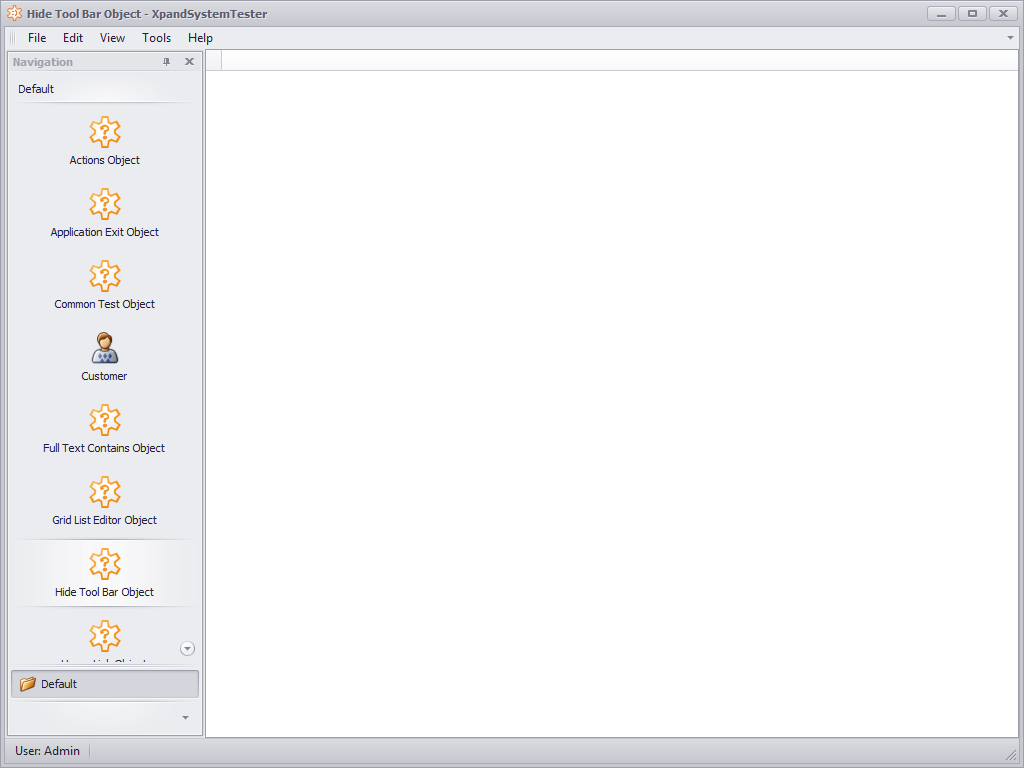
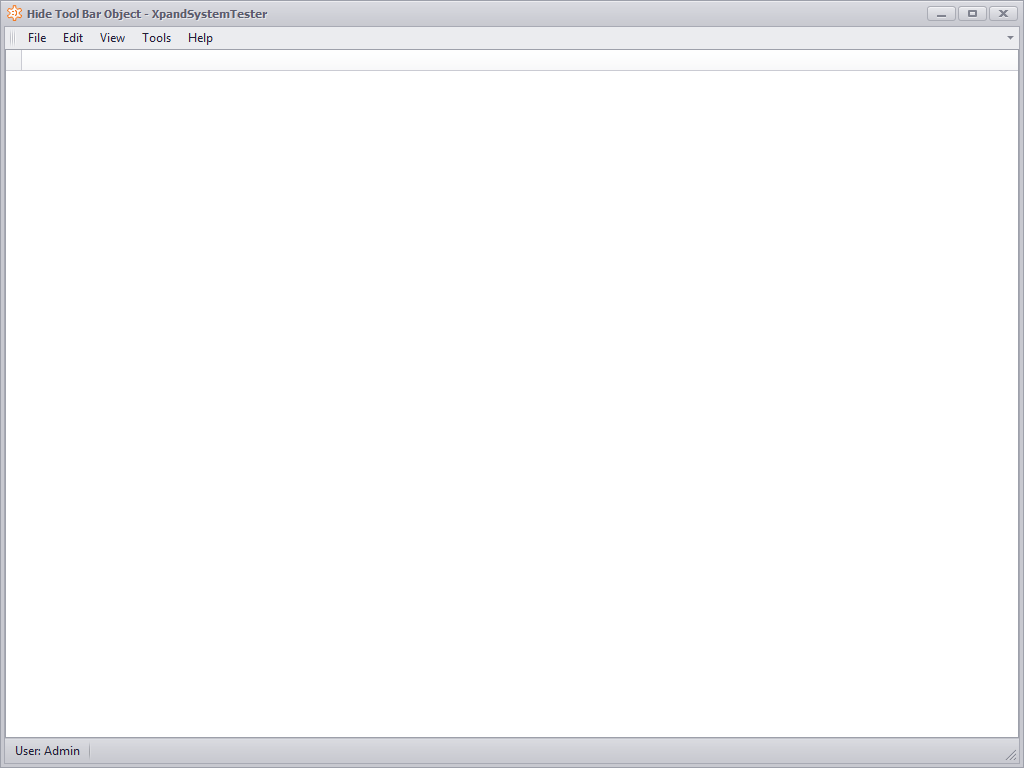
update easytest screenshots without navigation

diff --git a/Xpand.EasyTest/Xpand.EasyTest/Commands/XpandCompareScreenshotCommand.cs b/Xpand.EasyTest/Xpand.EasyTest/Commands/XpandCompareScreenshotCommand.cs
@@ -12,17 +12,23 @@ namespace Xpand.EasyTest.Commands{
     public class XpandCompareScreenshotCommand : CompareScreenshotCommand {
         public const string Name = "XpandCompareScreenshot";
         protected override void InternalExecute(ICommandAdapter adapter){
-            ExecuteAdditionalCommands(adapter);
-            ITestControl activeWindowControl = adapter.CreateTestControl(TestControlType.Dialog, null);
+            var activeWindowControl = adapter.CreateTestControl(TestControlType.Dialog, null);
             var windowHandle = GetWindowHandle(activeWindowControl);
+            ExecuteAdditionalCommands(adapter,windowHandle);
             var testImage = GetTestImage(windowHandle);
             var filename = GetFilename(adapter);
-            if (File.Exists(filename)){
-                CompareAndSave(filename, testImage,adapter);
+
+            try{
+                if (File.Exists(filename)){
+                    CompareAndSave(filename, testImage,adapter);
+                }
+                else{
+                    SaveActualImage(testImage, filename);
+                    throw new CommandException(String.Format("'{0}' master copy was not found", filename),StartPosition);
+                }
             }
-            else{
-                SaveActualImage(testImage, filename);
-                throw new CommandException(String.Format("'{0}' master copy was not found", filename),StartPosition);
+            finally{
+                ToggleNavigation(adapter);
             }
         }
 
@@ -41,9 +47,7 @@ namespace Xpand.EasyTest.Commands{
         private void SaveAllImages(Image diffImage, string filename, Image testImage){
             SaveDiffImage(diffImage, filename);
             SaveActualImage(testImage, filename);
-            throw new CommandException(
-                String.Format("A screenshot of the active window differs from the '{0}' master copy",
-                    filename), StartPosition);
+            throw new CommandException(String.Format("A screenshot of the active window differs from the '{0}' master copy",filename), StartPosition);
         }
 
         private static Image GetTestImage(IntPtr windowHandle){
@@ -83,14 +87,17 @@ namespace Xpand.EasyTest.Commands{
             return windowHandle;
         }
 
-        private void ExecuteAdditionalCommands(ICommandAdapter adapter){
-            if (this.ParameterValue("KillFocus", true)){
+        private void ExecuteAdditionalCommands(ICommandAdapter adapter, IntPtr windowHandle){
+            if (this.ParameterValue(KillFocusCommand.Name, true)){
                 var hideCaretCommand = new KillFocusCommand();
                 hideCaretCommand.Execute(adapter);
             }
-            if (this.ParameterValue("HideCursor", true)){
+            if (this.ParameterValue(HideCursorCommand.Name, true)){
                 var hideCaretCommand = new HideCursorCommand();
                 hideCaretCommand.Execute(adapter);
+            }
+            if (this.ParameterValue("ToggleNavigation", true)){
+                ToggleNavigation(adapter);
             }
             var parameter = Parameters["ActiveWindowSize"];
             string activeWindowSize = "1024x768";
@@ -99,11 +106,19 @@ namespace Xpand.EasyTest.Commands{
             }
             var activeWindowSizeCommand = new ResizeWindowCommand();
             activeWindowSizeCommand.Parameters.MainParameter = new MainParameter(activeWindowSize);
+            activeWindowSizeCommand.Parameters.ExtraParameter = new MainParameter(windowHandle.ToString());
             activeWindowSizeCommand.Execute(adapter);
 
             var sleepCommand = new SleepCommand();
             sleepCommand.Parameters.MainParameter=new MainParameter(500.ToString(CultureInfo.InvariantCulture));
             sleepCommand.Execute(adapter);
+        }
+
+        private void ToggleNavigation(ICommandAdapter adapter){
+            var actionCommand = new ActionCommand();
+            actionCommand.Parameters.MainParameter = new MainParameter("Toggle Navigation");
+            actionCommand.Parameters.ExtraParameter = new MainParameter();
+            actionCommand.Execute(adapter);
         }
 
         private IEnumerable<string> GetMaskFileNames(ICommandAdapter adapter){

diff --git a/Xpand/Xpand.Persistent/Xpand.Persistent.Base/General/Controllers/NavigationController.cs b/Xpand/Xpand.Persistent/Xpand.Persistent.Base/General/Controllers/NavigationController.cs
@@ -2,6 +2,7 @@
 using System.ComponentModel;
 using System.Linq;
 using DevExpress.ExpressApp;
+using DevExpress.ExpressApp.Actions;
 using DevExpress.ExpressApp.Model;
 using DevExpress.ExpressApp.Web;
 using DevExpress.ExpressApp.Win.SystemModule;
@@ -14,8 +15,20 @@ namespace Xpand.Persistent.Base.General.Controllers {
         bool HideNavigationOnStartup { get; set; }
     }
     public class NavigationContainerController:WindowController,IModelExtender {
+        private readonly SimpleAction _toggleNavigation;
+
         public NavigationContainerController() {
             TargetWindowType=WindowType.Main;
+            _toggleNavigation = new SimpleAction(this, "ToggleNavigation", "Hidden");
+            _toggleNavigation.Execute+=ToggleNavigationOnExecute;
+        }
+
+        protected virtual void ToggleNavigationOnExecute(object sender, SimpleActionExecuteEventArgs e){
+            
+        }
+
+        public SimpleAction ToggleNavigation{
+            get { return _toggleNavigation; }
         }
 
         public void ExtendModelInterfaces(ModelInterfaceExtenders extenders){
@@ -30,26 +43,44 @@ namespace Xpand.Persistent.Base.General.Controllers {
                 Application.CustomizeTemplate += Application_CustomizeTemplate;
         }
 
+        protected override void ToggleNavigationOnExecute(object sender, SimpleActionExecuteEventArgs e){
+            base.ToggleNavigationOnExecute(sender, e);
+            var navigationPanel = GetNavigationPanel((IDockManagerHolder) Frame.Template);
+            navigationPanel.Visible = !navigationPanel.Visible;
+        }
+
         protected override void OnDeactivated() {
             Application.CustomizeTemplate -= Application_CustomizeTemplate;
             base.OnDeactivated();
         }
 
         private void Application_CustomizeTemplate(object sender, CustomizeTemplateEventArgs e) {
-            if ((Window.Template == null || Window.Template == e.Template) && e.Template is IDockManagerHolder) {
-                var dockPanel = ((IDockManagerHolder)e.Template).DockManager.RootPanels.FirstOrDefault(panel => panel.Name == "dockPanelNavigation");
-                if (dockPanel != null) dockPanel.Visibility = DockVisibility.AutoHide;
+            if ((Window.Template == null || Window.Template == e.Template) && e.Template is IDockManagerHolder){
+                var dockManagerHolder = ((IDockManagerHolder)e.Template);
+                var dockPanel = GetNavigationPanel(dockManagerHolder);
+                if (dockPanel != null) 
+                    dockPanel.Visibility = DockVisibility.AutoHide;
             }
+        }
+
+        private DockPanel GetNavigationPanel(IDockManagerHolder dockManagerHolder){
+            return dockManagerHolder.DockManager.Panels.FirstOrDefault(panel => panel.Name == "dockPanelNavigation");
         }
     }
 
 
-    public class NavigationContainerWebController : WindowController {
+    public class NavigationContainerWebController : NavigationContainerController {
         protected override void OnFrameAssigned(){
             base.OnFrameAssigned();
             if (((IModelOptionsNavigationContainer)Application.Model.Options).HideNavigationOnStartup)
                 WebWindow.CurrentRequestPage.PreRender+=CurrentRequestPageOnInit;
             
+        }
+
+        protected override void ToggleNavigationOnExecute(object sender, SimpleActionExecuteEventArgs e){
+            base.ToggleNavigationOnExecute(sender, e);
+            const string script = "OnClick('LPcell','separatorImage',true);";
+            WebWindow.CurrentRequestWindow.RegisterClientScript("separatorClick", script);
         }
 
         private void CurrentRequestPageOnInit(object sender, EventArgs eventArgs){

diff --git a/Xpand.EasyTest/Xpand.EasyTest/Commands/SetForeGroundWindowSize.cs b/Xpand.EasyTest/Xpand.EasyTest/Commands/SetForeGroundWindowSize.cs
@@ -10,14 +10,22 @@ namespace Xpand.EasyTest.Commands{
         public const string Name = "ResizeWindow";
         protected override void InternalExecute(ICommandAdapter adapter){
             EasyTestTracer.Tracer.InProcedure(Name);
-            IntPtr windowHandle = Win32Declares.WindowFocus.GetForegroundWindow();
+            var windowHandle = GetWindowHandle();
             var windowSize = SetActiveWindowSizeCommand.GetWindowSize(Parameters.MainParameter.Value);
-            WindowAutomation.ResizeWindow(windowHandle, windowSize);
+            if (adapter.IsWinAdapter())
+                WindowAutomation.ResizeWindow(windowHandle, windowSize);
+            else{
+                var setActiveWindowSizeCommand = new SetActiveWindowSizeCommand();
+                setActiveWindowSizeCommand.Parameters.MainParameter=Parameters.MainParameter;
+                setActiveWindowSizeCommand.Execute(adapter);
+            }
             WindowAutomation.MoveWindow(windowHandle, new Point(0, 0));
-
-            var focusWindowCommand = new FocusWindowCommand();
-            focusWindowCommand.Execute(adapter);
             EasyTestTracer.Tracer.OutProcedure(Name);
+        }
+
+        private IntPtr GetWindowHandle(){
+            var extraParameter = Parameters.ExtraParameter;
+            return extraParameter != null ? new IntPtr(int.Parse(extraParameter.Value)) : Win32Declares.WindowFocus.GetForegroundWindow();
         }
     }
 }
